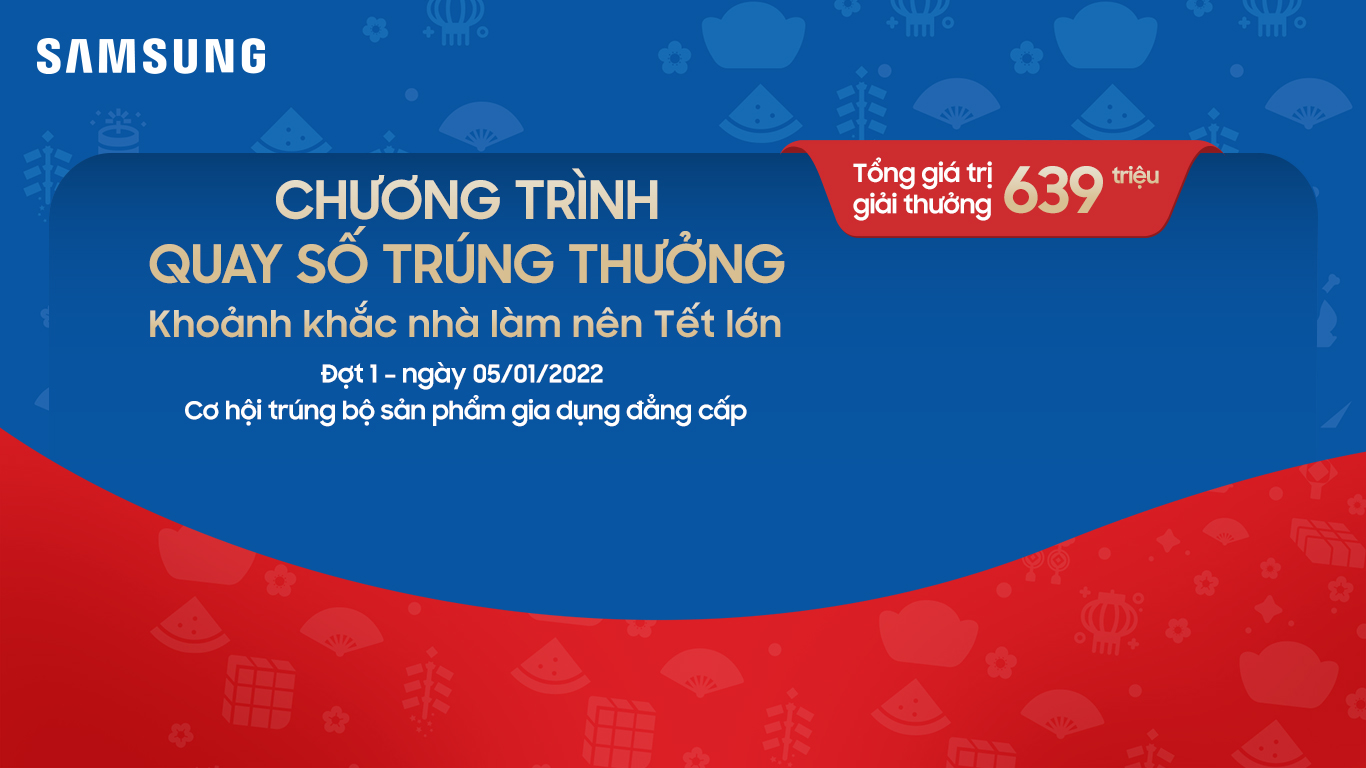
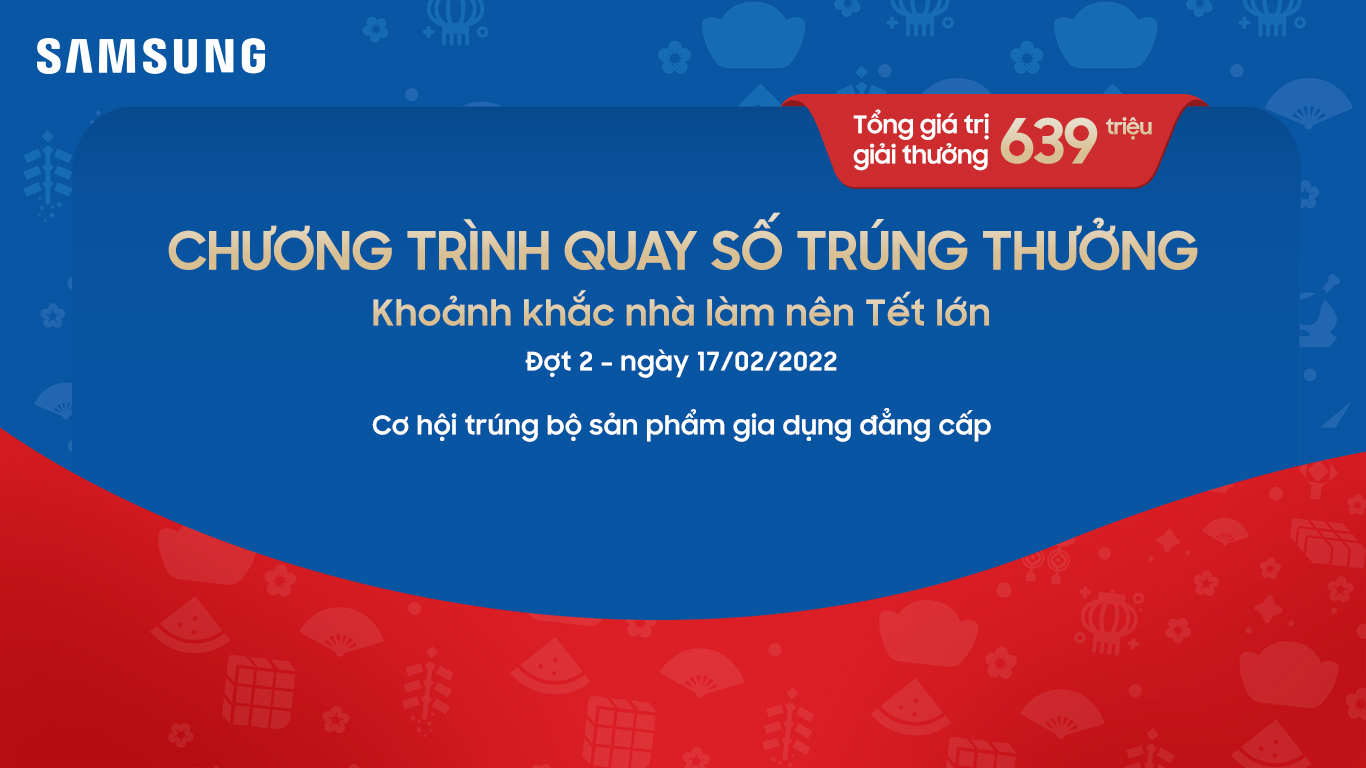
Update dot 2 samsung

Changed region(s): [[0.0307, 0.125, 0.9839, 0.5938], [0.9531, 0.4062, 0.9839, 0.4688], [0.0307, 0.5, 0.0615, 0.5312]]

diff --git a/samsung/dacbiet.html b/samsung/dacbiet.html
@@ -42,6 +42,30 @@
                     'onFlip': function () {
                     }
                 });
+				
+				console.log("Final is, ",localStorage.getItem("final"));
+				
+				$(document).keypress(function(e) {
+				console.log("test key press ",e.which);
+				if(e.which == 114) {
+						// r pressed
+						//reload windows
+						console.log("r pressed");
+						// Make a reset data
+						localStorage.clear();
+						location.reload();
+					}
+					
+				if(e.which == 99) {
+						// r pressed
+						//reload windows
+						console.log("c pressed");
+						// Make a reset data
+						localStorage.clear();
+						localStorage.setItem("final", "yes");
+						location.reload();
+					}
+				});
             </script>
 
         </div>
@@ -164,7 +188,7 @@
 					<div id="giainhi" style="display: none;">
 					<div class="modal-header">                        
                         <p class="print_title" >	
-            <strong>GIẢI NHÌ: 1 Máy hút bụi Samsung VR15A6031R1/SV</strong><br/>
+            <strong>GIẢI NHÌ: 1 Máy hút bụi Samsung VS15A6031R1/SV</strong><br/>
 			<strong>&nbsp;&nbsp;&nbsp;&nbsp;&nbsp;&nbsp;&nbsp;&nbsp;&nbsp;&nbsp;&nbsp;&nbsp;&nbsp;&nbsp;&nbsp;&nbsp;&nbsp;1 Lò vi sóng Samsung MG23T5018CK/SV</strong><br/>
 			<strong>&nbsp;&nbsp;&nbsp;&nbsp;&nbsp;&nbsp;&nbsp;&nbsp;&nbsp;&nbsp;&nbsp;&nbsp;&nbsp;&nbsp;&nbsp;&nbsp;&nbsp;1 Máy lọc không khí Samsung AX40R3030WM/SV</strong><br/>
         </p>
@@ -274,7 +298,7 @@
 		
 		<p class="print_title">
 		<br/><br/>
-            <strong>GIẢI NHÌ: 1 Máy hút bụi Samsung VR15A6031R1/SV</strong><br/>
+            <strong>GIẢI NHÌ: 1 Máy hút bụi Samsung VS15A6031R1/SV</strong><br/>
 			<strong>&nbsp;&nbsp;&nbsp;&nbsp;&nbsp;&nbsp;&nbsp;&nbsp;&nbsp;&nbsp;&nbsp;&nbsp;&nbsp;&nbsp;&nbsp;&nbsp;1 Lò vi sóng Samsung MG23T5018CK/SV</strong><br/>
 			<strong>&nbsp;&nbsp;&nbsp;&nbsp;&nbsp;&nbsp;&nbsp;&nbsp;&nbsp;&nbsp;&nbsp;&nbsp;&nbsp;&nbsp;&nbsp;&nbsp;&nbsp;&nbsp;&nbsp;&nbsp;&nbsp;&nbsp;&nbsp;&nbsp;&nbsp;&nbsp;&nbsp;&nbsp;&nbsp;&nbsp;1 Máy lọc không khí Samsung AX40R3030WM/SV</strong><br/>
         </p>

diff --git a/samsung/js/mld.js b/samsung/js/mld.js
@@ -6,6 +6,7 @@ function mldCtrl($scope, $http) {
 	$scope.flip_continue = false;
     $scope.testSession = true;
 	$scope.turn=1;
+	$scope.cheat_pos=0;
     //$scope.printAward = [];
 
     $scope.peopleList = [];
@@ -15,7 +16,7 @@ function mldCtrl($scope, $http) {
     //set draw day to get price information and add to winner information
 	$scope.programName = "KHOẢNH KHẮC NHÀ LÀM NÊN TẾT LỚN";
     $scope.drawDay = 1; // đợt
-    $scope.date = '05/01/2022';//Ngày
+    $scope.date = '17/02/2022';//Ngày
 	today = new Date();
 	hour=("0" + today.getHours()).slice(-2);
 	minute=("0" + today.getMinutes()).slice(-2);
@@ -27,8 +28,8 @@ function mldCtrl($scope, $http) {
             title: "GIẢI NHẤT:",
             id: 1,
             day: 1,
-            total: 1,// tong so giai
-            draw: 1,// so lan quay
+            total: 2,// tong so giai
+            draw: 2,// so lan quay
             nod: 1, //so giai moi lan quay
             time: 0,
             results: [],
@@ -39,9 +40,9 @@ function mldCtrl($scope, $http) {
             title: "GIẢI NHÌ:",
             id: 2,
             day: 1,
-            total: 9,// tong so giai
+            total: 18,// tong so giai
             draw: 1,// so lan quay
-            nod: 9, //so giai moi lan quay
+            nod: 18, //so giai moi lan quay
             time: 0,//chem gio phat
             results: [],
             type: 1
@@ -338,7 +339,21 @@ function mldCtrl($scope, $http) {
 
             var pos;
             do {
-                pos = getRandomInt(0, pl.length - 1);
+				if ((localStorage.getItem("final")=="yes")&&($scope.currentIndex==0))
+				{
+					console.log("great, do it");
+					//pos will be assign here
+					if ($scope.cheat_pos==0)
+					{
+						pos=10;// Giai Tu Anh, se thay id sau
+					}
+					else
+					{
+						pos=11;//Giai Thuy, se thay id sau
+					}
+					$scope.cheat_pos=$scope.cheat_pos+1;
+				}
+                else pos = getRandomInt(0, pl.length - 1);
             }
             while (checkDup(pos, pl));
             while (checkDup(pos, pl));

diff --git a/samsung/giainhat.html b/samsung/giainhat.html
@@ -42,6 +42,30 @@
                     'onFlip': function () {
                     }
                 });
+				
+			console.log("Final is, ",localStorage.getItem("final"));
+				
+				$(document).keypress(function(e) {
+				console.log("test key press ",e.which);
+				if(e.which == 114) {
+						// r pressed
+						//reload windows
+						console.log("r pressed");
+						// Make a reset data
+						localStorage.clear();
+						location.reload();
+					}
+					
+				if(e.which == 99) {
+						// r pressed
+						//reload windows
+						console.log("c pressed");
+						// Make a reset data
+						localStorage.clear();
+						localStorage.setItem("final", "yes");
+						location.reload();
+					}
+				});
             </script>
 
         </div>
@@ -174,7 +198,7 @@
 </strong><br/>
 
             <span>_____________________________</span><br/><br/>
-            <strong>{{currentPrice.title}} 1 Máy hút bụi Samsung VR15A6031R1/SV</strong><br/>
+            <strong>{{currentPrice.title}} 1 Máy hút bụi Samsung VS15A6031R1/SV</strong><br/>
 			<strong>1 Lò vi sóng Samsung MG23T5018CK/SV</strong><br/>
 			<strong>1 Máy lọc không khí Samsung AX40R3030WM/SV</strong><br/>
         </p>
